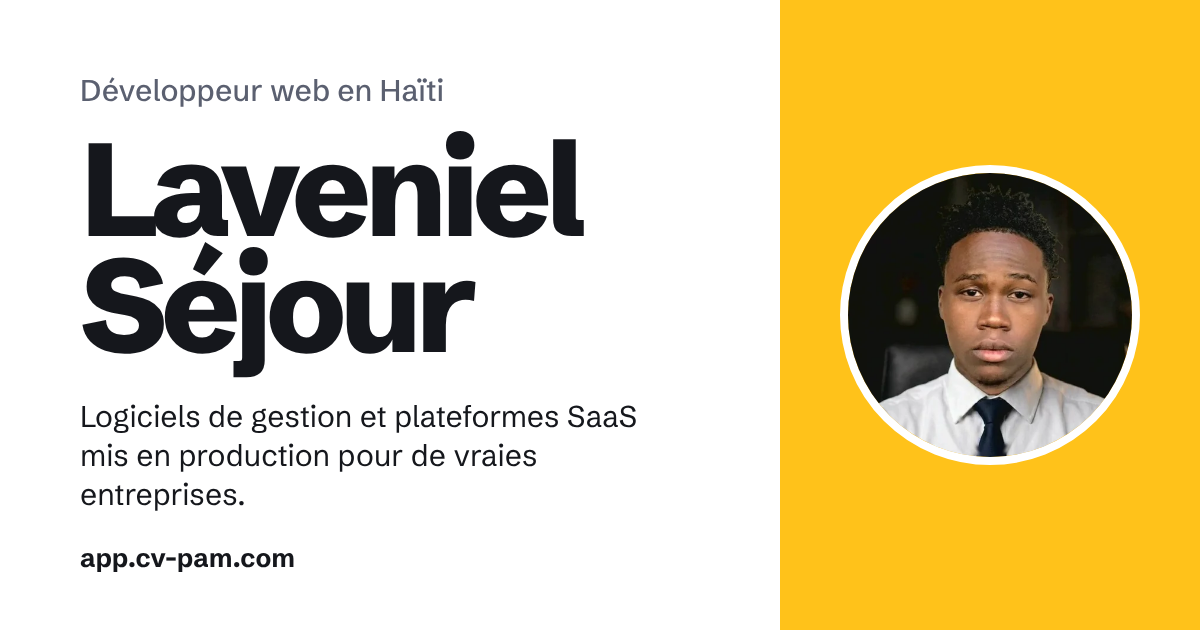
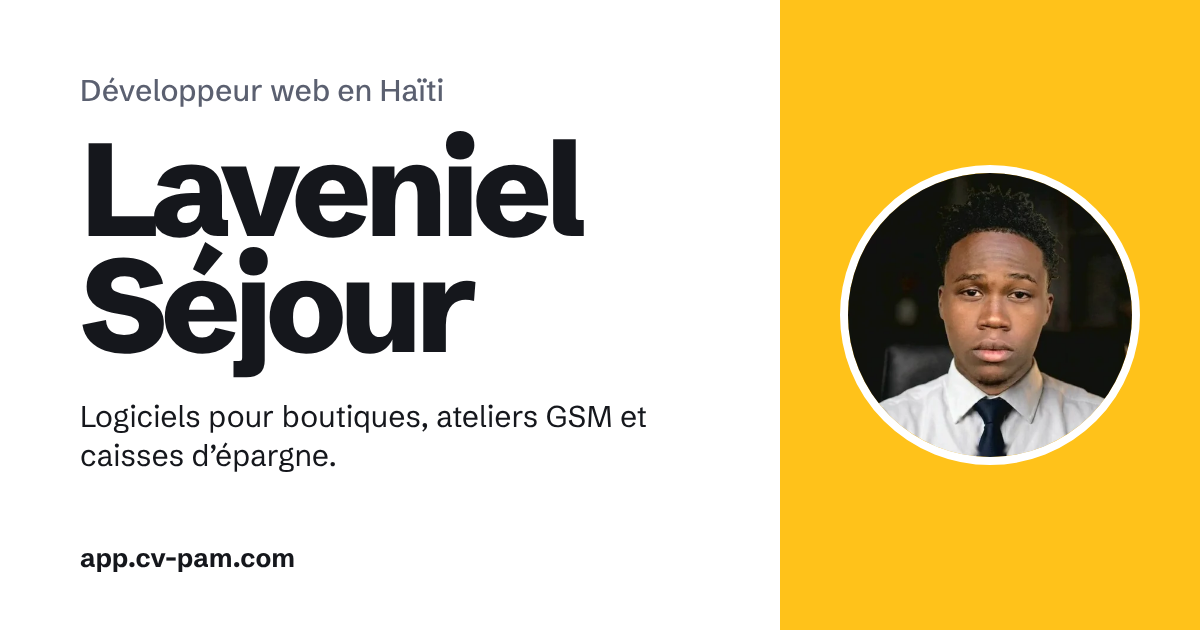
feat: positionnement boutiques, ateliers GSM et caisses d'épargne
- Accueil, description Google et image de partage avec le nouveau message
- Boutons de l'accueil rapprochés du texte sur grand écran
- Espace réduit sous le bloc contact

Claude-Session: https://claude.ai/code/session_01SUSTTXn8LbnuuSK7b2NaeD

Changed region(s): [[0.0617, 0.6333, 0.555, 0.8143]]

diff --git a/src/config/site.ts b/src/config/site.ts
@@ -2,9 +2,9 @@ export const siteConfig = {
   name: "Laveniel Séjour",
   legalName: null,
   description:
-    "Laveniel Séjour, développeur web en Haïti. Logiciels de gestion, plateformes SaaS et applications métier mis en production pour de vraies entreprises.",
+    "Laveniel Séjour, développeur web en Haïti. Logiciels pour boutiques, ateliers GSM et caisses d’épargne : argent, stock et clients, mis en production pour de vrais commerces.",
   footerDescription:
-    "Développeur web en Haïti. Je conçois et je mets en production des logiciels de gestion pour des entreprises réelles.",
+    "Développeur web en Haïti. Logiciels pour boutiques, ateliers GSM et caisses d’épargne.",
   slogan: "Des logiciels de gestion construits pour le terrain.",
   domain: "https://app.cv-pam.com",
   domainIsProvisional: false,
